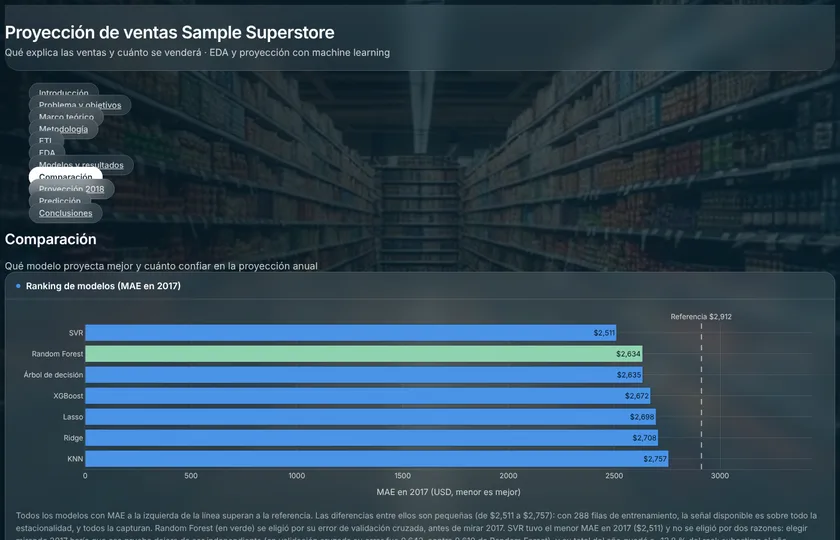
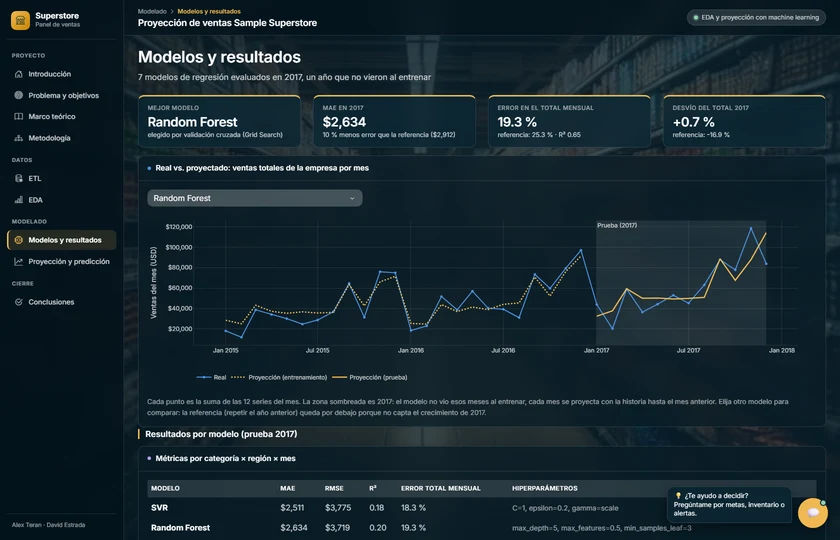
Superstore: capturas del nuevo panel de control y descripción al día
- Reemplaza las dos capturas que mostraban el diseño anterior con pestañas
- La tarjeta del proyecto Dash lo describe como panel de control con predicción en vivo y asistente IA
- El README enlaza el Jupyter Book

diff --git a/src/sections/ProjectsSection.tsx b/src/sections/ProjectsSection.tsx
@@ -27,7 +27,7 @@ const PROJECTS: Project[] = [
     name: 'Proyección de ventas Superstore',
     category: 'Forecasting · Business Analytics',
     summary:
-      'App en Dash que proyecta ventas 2018 por categoría y región. El modelo acertó el total anual con +3,4 % de desvío, frente a −16,9 % del método base.',
+      'Panel de control en Dash que proyecta ventas 2018 por categoría y región, con predicción en vivo y asistente IA. El modelo acertó el total anual con +3,4 % de desvío, frente a −16,9 % del método base.',
     href: 'https://github.com/AlexT09/proyecto_superstorep2',
     col1: [asset('projects/superstore-1.png'), asset('projects/superstore-2.png')],
     col2: asset('projects/superstore-3.png'),

diff --git a/README.md b/README.md
@@ -6,7 +6,7 @@ Portafolio personal: dashboards y paneles de business analytics en Python (Dash)
 
 ## Proyectos destacados
 - [Heart Disease MLOps](https://github.com/AlexT09/heart-disease-mlops): clasificación, FastAPI, Docker, Kubernetes, CI/CD y monitoreo de deriva.
-- [Proyección de ventas Superstore](https://github.com/AlexT09/proyecto_superstorep2): forecasting por categoría y región con app en Dash.
+- [Proyección de ventas Superstore](https://github.com/AlexT09/proyecto_superstorep2): forecasting por categoría y región con panel de control en Dash y [libro en Jupyter Book](https://alext09.github.io/superstore-jupyterbook/).
 - [Superstore en R: Shiny y bookdown](https://github.com/AlexT09/rbook): el mismo forecasting en R, con app Shiny (shinydashboard) y [libro en bookdown](https://alext09.github.io/rbook/).
 
 Las gráficas de las tarjetas (`public/projects/`) se generaron con los datos de cada repositorio, y la franja animada (`public/marquee/`) usa capturas del dashboard de Superstore y gráficas de Heart Disease MLOps.
